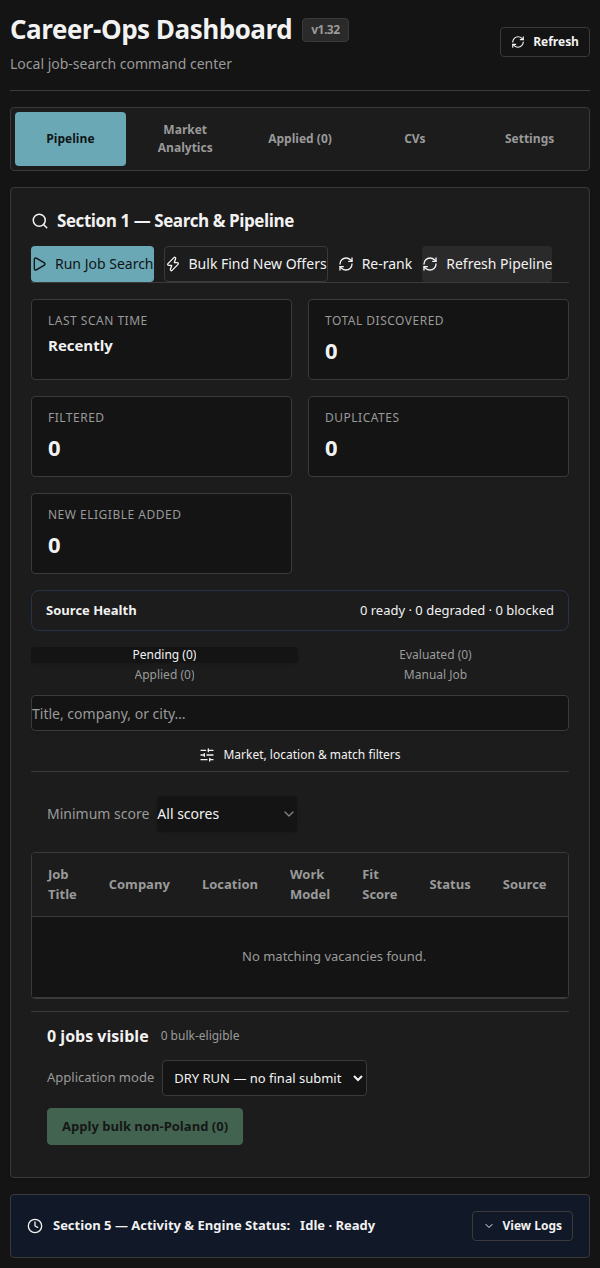
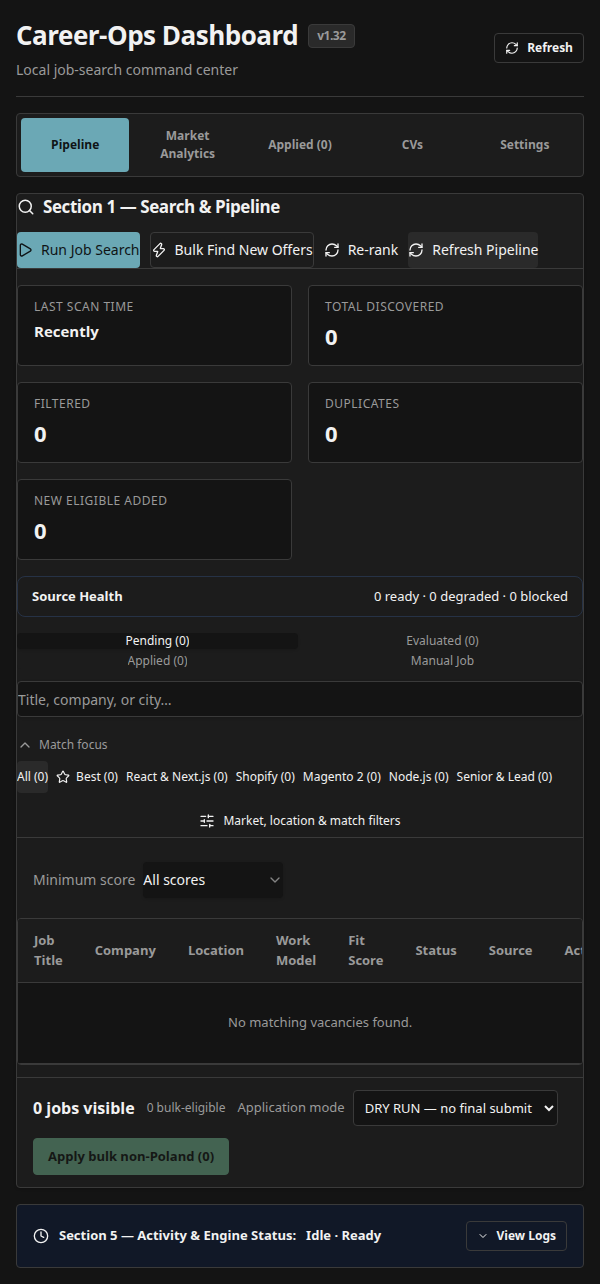
fix(ui): show match chips open by default; add dashboard padding
Match focus chips render in an expanded collapsible (default open) under the
primary filter row on desktop and mobile. Increase dashboard and card padding
(p-4/md:p-6) and normalize pipeline section spacing inside the card.

diff --git a/ui/src/PipelineFilters.tsx b/ui/src/PipelineFilters.tsx
@@ -259,22 +259,24 @@ function PrimaryFilterRow(props: PipelineFiltersProps) {
   );
 }
 
-function MoreFiltersSection(props: PipelineFiltersProps) {
+function MatchFocusSection(props: Pick<PipelineFiltersProps, "matchCategory" | "setMatchCategory" | "categoryCounts">) {
   const { matchCategory, setMatchCategory, categoryCounts } = props;
-  const [open, setOpen] = useState(false);
-  const activeChip = matchCategory !== "ALL";
+  const [open, setOpen] = useState(true);
 
   return (
     <Collapsible open={open} onOpenChange={setOpen} className="min-w-0">
-      <CollapsibleTrigger asChild>
-        <Button type="button" variant="ghost" size="sm" className="h-8 gap-1.5 px-2 text-muted-foreground">
-          <ChevronDown className={cn("size-4 transition-transform", open && "rotate-180")} />
-          More filters
-          {activeChip && <span className="rounded bg-primary/15 px-1.5 text-[10px] text-primary">1 active</span>}
-        </Button>
-      </CollapsibleTrigger>
+      <div className="flex flex-wrap items-center gap-2">
+        <CollapsibleTrigger asChild>
+          <Button type="button" variant="ghost" size="sm" className="h-8 gap-1.5 px-2 text-muted-foreground">
+            <ChevronDown className={cn("size-4 transition-transform", open && "rotate-180")} />
+            Match focus
+          </Button>
+        </CollapsibleTrigger>
+        {matchCategory !== "ALL" && (
+          <span className="rounded bg-primary/15 px-1.5 py-0.5 text-[10px] text-primary">Filter active</span>
+        )}
+      </div>
       <CollapsibleContent className="pt-2">
-        <p className="mb-2 text-xs text-muted-foreground">Match focus</p>
         <MatchCategoryChips matchCategory={matchCategory} setMatchCategory={setMatchCategory} categoryCounts={categoryCounts} />
       </CollapsibleContent>
     </Collapsible>
@@ -285,7 +287,11 @@ function DesktopJobFilters(props: PipelineFiltersProps) {
   return (
     <div className="hidden min-w-0 flex-col gap-3 md:flex">
       <PrimaryFilterRow {...props} />
-      <MoreFiltersSection {...props} />
+      <MatchFocusSection
+        matchCategory={props.matchCategory}
+        setMatchCategory={props.setMatchCategory}
+        categoryCounts={props.categoryCounts}
+      />
     </div>
   );
 }
@@ -296,13 +302,18 @@ function MobileJobFilters(props: PipelineFiltersProps) {
   if (pipelineView === "manual") return null;
 
   return (
-    <div className="flex min-w-0 flex-col gap-2 md:hidden">
+    <div className="flex min-w-0 flex-col gap-3 md:hidden">
       <Input
         type="search"
         placeholder="Title, company, or city…"
         value={searchQuery}
         onChange={(e) => setSearchQuery(e.target.value)}
         className="w-full min-w-0"
+      />
+      <MatchFocusSection
+        matchCategory={props.matchCategory}
+        setMatchCategory={props.setMatchCategory}
+        categoryCounts={props.categoryCounts}
       />
       <Sheet open={sheetOpen} onOpenChange={setSheetOpen}>
         <SheetTrigger asChild>
@@ -317,14 +328,6 @@ function MobileJobFilters(props: PipelineFiltersProps) {
           </SheetHeader>
           <div className="mt-4 flex flex-col gap-4 pb-4">
             <PrimaryFilterRow {...props} />
-            <div>
-              <p className="mb-2 text-xs text-muted-foreground">Match focus</p>
-              <MatchCategoryChips
-                matchCategory={props.matchCategory}
-                setMatchCategory={props.setMatchCategory}
-                categoryCounts={props.categoryCounts}
-              />
-            </div>
           </div>
         </SheetContent>
       </Sheet>
@@ -338,7 +341,7 @@ export function PipelineFilters(props: PipelineFiltersProps) {
   const showJobFilters = pipelineView !== "manual";
 
   return (
-    <div className={cn("w-full min-w-0 overflow-x-hidden border-b border-border px-4 py-3 md:px-6", className)}>
+    <div className={cn("w-full min-w-0 overflow-x-hidden border-b border-border py-3", className)}>
       <div className="flex min-w-0 flex-col gap-3">
         <PipelineViewTabs {...props} />
         {showJobFilters && (

diff --git a/ui/src/App.tsx b/ui/src/App.tsx
@@ -876,8 +876,8 @@ export function App() {
       </div>}
 
       {/* SECTION 1: SEARCH & PIPELINE */}
-      {activeTab === "pipeline" && <Card className="card pipeline-card gap-0 border-border bg-card py-0">
-        <CardHeader className="card-header flex-row flex-wrap items-center justify-between gap-3 space-y-0 border-b border-border">
+      {activeTab === "pipeline" && <Card className="card pipeline-card gap-0 border-border bg-card !p-0 overflow-hidden">
+        <CardHeader className="card-header flex-row flex-wrap items-center justify-between gap-3 space-y-0 border-b border-border px-4 py-4 md:px-6 md:py-5">
           <CardTitle className="card-title flex items-center gap-2 text-base font-semibold">
             <Search size={18} /> Section 1 — Search & Pipeline
           </CardTitle>
@@ -899,10 +899,10 @@ export function App() {
             </Button>
           </div>
         </CardHeader>
-        <CardContent className="flex flex-col gap-4 p-0">
+        <CardContent className="flex flex-col gap-4 p-4 md:gap-6 md:p-6">
 
         {/* Stats Strip */}
-        <div className="stats-strip px-4 md:px-6">
+        <div className="stats-strip">
           <div className="stat-box">
             <span className="stat-label">Last Scan Time</span>
             <span className="stat-value" style={{ fontSize: "15px" }}>
@@ -929,9 +929,7 @@ export function App() {
           </div>
         </div>
 
-        <div className="px-4 md:px-6">
-          <DiscoveryHealth compact refreshKey={status?.lastScan?.lastRun || ''} />
-        </div>
+        <DiscoveryHealth compact refreshKey={status?.lastScan?.lastRun || ''} />
 
           <PipelineFilters
             pipelineView={pipelineView}
@@ -969,7 +967,7 @@ export function App() {
             setModelFilter={setModelFilter}
           />
 
-        <div className="flex min-w-0 w-full flex-col gap-3 px-4 pb-4 md:px-6">
+        <div className="flex min-w-0 w-full flex-col gap-3 md:gap-4">
         {pipelineView === "manual" && (
           <ManualJobBoard
             providerId={selectedProviderId}

diff --git a/ui/src/App.css b/ui/src/App.css
@@ -2,13 +2,20 @@
 
 .dashboard {
   max-width: 1950px;
-  width: 96vw;
+  width: min(96vw, 100%);
   margin: 0 auto;
-  padding: 16px;
+  padding: 1rem;
   display: flex;
   flex-direction: column;
-  gap: 16px;
+  gap: 1rem;
   flex: 1;
+}
+
+@media (min-width: 768px) {
+  .dashboard {
+    padding: 1.5rem;
+    gap: 1.5rem;
+  }
 }
 
 /* Header */
@@ -271,10 +278,17 @@
   background: var(--bg-secondary);
   border: 1px solid var(--border);
   border-radius: var(--radius);
-  padding: 20px;
+  padding: 1rem;
   display: flex;
   flex-direction: column;
-  gap: 16px;
+  gap: 1rem;
+}
+
+@media (min-width: 768px) {
+  .card {
+    padding: 1.5rem;
+    gap: 1.25rem;
+  }
 }
 
 .card-header {
@@ -931,7 +945,7 @@
   .job-details-overlay .modal-content { width: 100%; max-height: calc(100vh - 24px); padding: 24px; border: 1px solid var(--border); }
   .job-details-overlay .detail-grid { grid-template-columns: repeat(2, 1fr); }
 }
-@media (max-width: 700px) { .dashboard { width: 100%; padding: 10px; } }
+@media (max-width: 700px) { .dashboard { width: 100%; } }
 
 /* Job detail actions reuse the dashboard's dark-theme tokens. */
 .job-details-overlay .modal-content { gap: 24px; }
